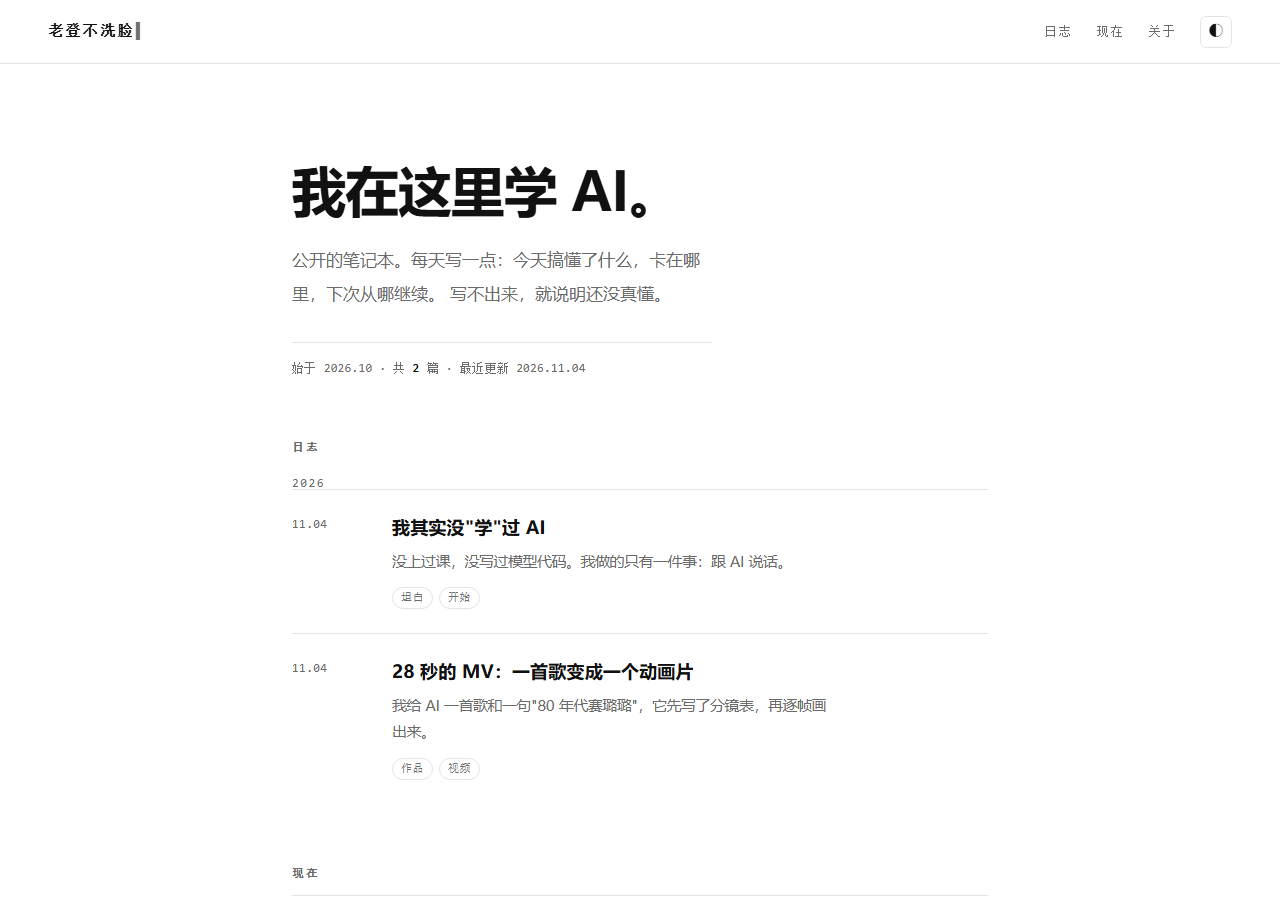
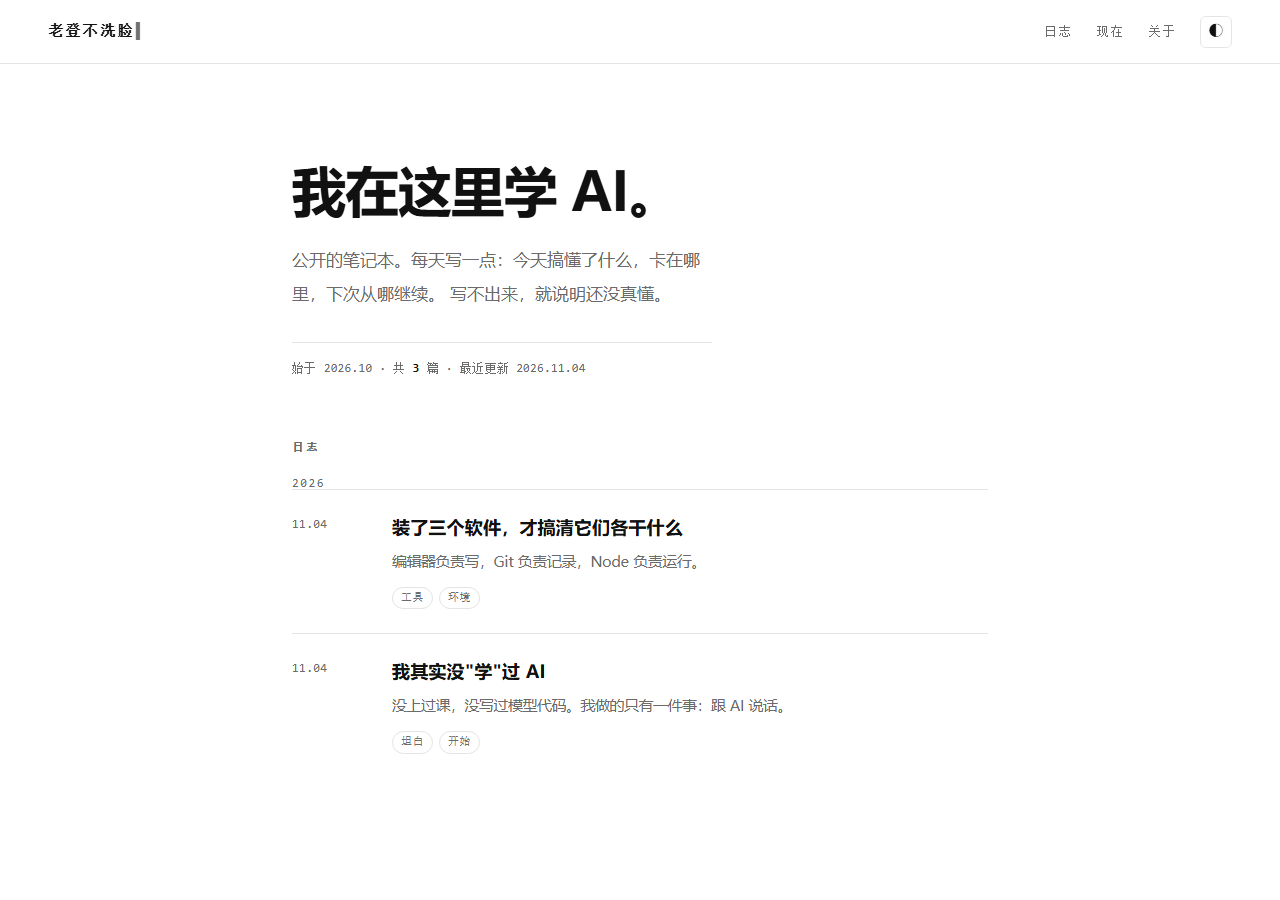
加了一篇：装了三个软件，以及最爽和最烦的那件事

Changed region(s): [[0.3125, 0.7156, 0.6562, 0.8711], [0.3125, 0.56, 0.5938, 0.6844], [0.2188, 0.9644, 0.25, 0.9956]]

diff --git a/posts.js b/posts.js
@@ -21,6 +21,61 @@
 
 const POSTS = [
   {
+    slug: 'three-tools',
+    date: '2026-11-04',
+    title: '装了三个软件，才搞清它们各干什么',
+    tags: ['工具', '环境'],
+    summary: '编辑器负责写，Git 负责记录，Node 负责运行。',
+    body: `
+      <p>今天干了一件以前觉得"跟我没关系"的事：在自己电脑上装了三个开发用的软件。</p>
+
+      <p>三个都放在 E 盘，都是<strong>便携版</strong>——不往 C 盘写、不改注册表、不需要管理员权限。哪天不想要了，删掉文件夹就等于卸载。</p>
+
+      <h2>一、VS Code：写代码的地方</h2>
+
+      <p>它不是编译器，也不是什么高级工具，就是一个<strong>文本编辑器</strong>，只是专门为写代码优化过：语法高亮、补全、内置终端。</p>
+
+      <p>我现在改这个网站，就是在它里面打开 <code>posts.js</code>，改几行，按 <code>Ctrl + S</code>，然后推送。</p>
+
+      <h2>二、Git：给代码装了一台时光机</h2>
+
+      <p>Git 管的是「版本」。每改一次，它记一笔（叫 commit），写一句说明。于是：</p>
+
+      <ul>
+        <li>改坏了，能回到任何一个之前的版本</li>
+        <li>能看见每一行是谁、什么时候改的</li>
+        <li>能把本地记录同步到 GitHub（这一步叫 push）</li>
+      </ul>
+
+      <p>以前我改东西只有两种状态：改之前、改之后。现在每一笔都有记录。</p>
+
+      <h2>三、Node.js：让 JavaScript 在浏览器外面也能跑</h2>
+
+      <p>JavaScript 本来是浏览器里的语言。Node 是一个"引擎"，让同样的语言可以直接在电脑上运行。</p>
+
+      <p>为什么写网页也要它？因为很多开发工具本身就是用 JS 写的，需要一个引擎来跑它们。</p>
+
+      <blockquote>说句实话：这个网站根本不需要 Node。纯 HTML/CSS/JS 的文件，双击就能开。我装它，是为了以后——写构建脚本、调 AI 接口、跑本地预览服务器。</blockquote>
+
+      <h2>踩的坑（比教程有用）</h2>
+
+      <ul>
+        <li><strong>下载慢</strong>：VS Code 的压缩包有 352 MB，下了十几分钟；Git 从 GitHub 下也花了 9 分钟。</li>
+        <li><strong>SSL 证书报错</strong>：<code>git push</code> 时报证书吊销检查失败，因为这台机器连不上验证服务器。最后只给这个仓库关掉了校验。</li>
+        <li><strong>PowerShell 粘多行</strong>：三行命令一次粘进去，会出现 <code>&gt;&gt;</code> 提示符，因为 PowerShell 以为命令还没写完。要一行一行粘。</li>
+        <li><strong>VS Code 的"信任文件夹"</strong>：第一次打开会问信不信任这些文件，不点就一直锁在受限模式。</li>
+      </ul>
+
+      <h2>今天真正的收获</h2>
+
+      <p>不是"装了三个软件"，而是知道了它们各自负责什么：<strong>编辑器负责写，Git 负责记录，Node 负责运行。</strong></p>
+
+      <p>今天最烦的：我讨厌自己"什么都不知道，活就干完了"。</p>
+
+      <p>但最爽的，偏偏也是这个。</p>
+    `
+  },
+  {
     slug: 'i-never-studied-ai',
     date: '2026-11-04',
     title: '我其实没"学"过 AI',
